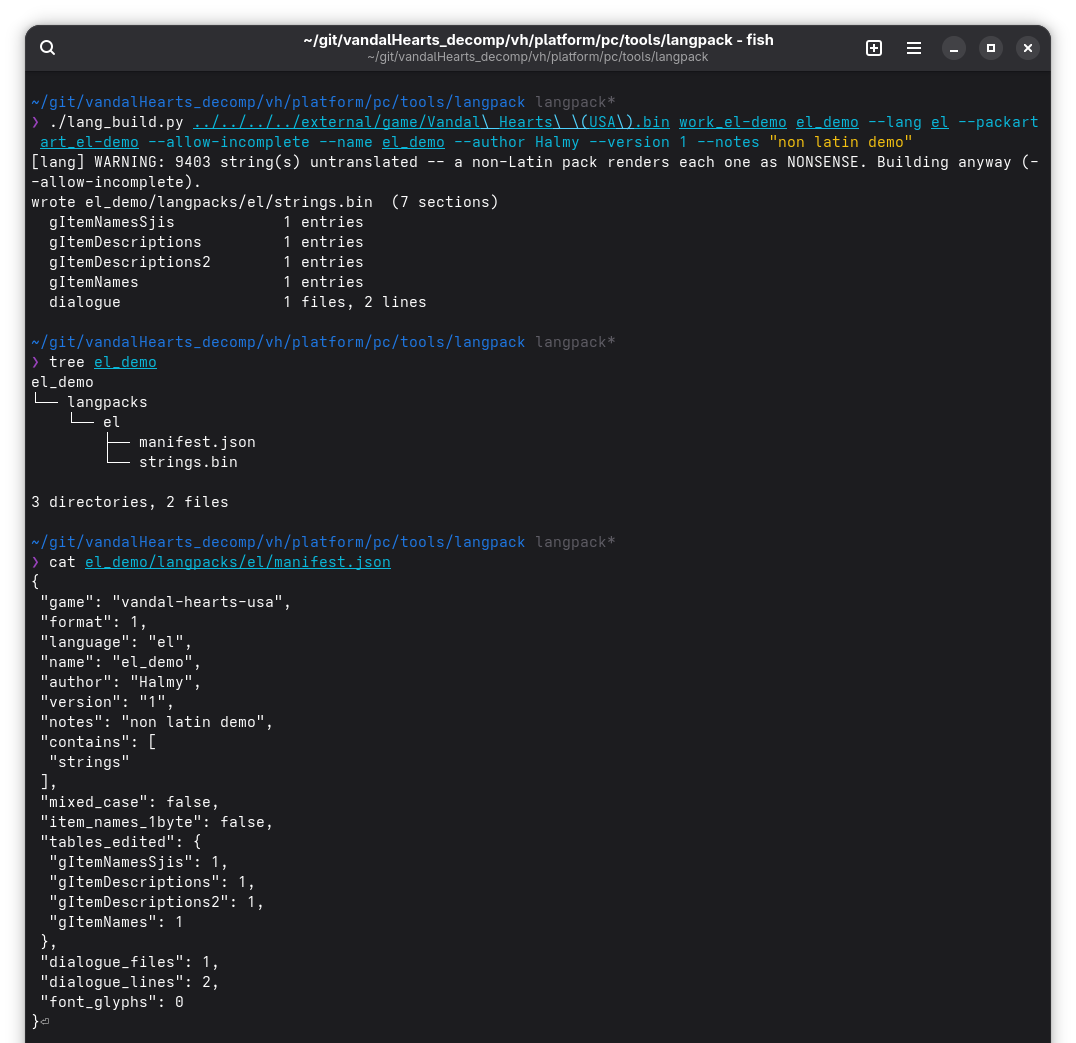
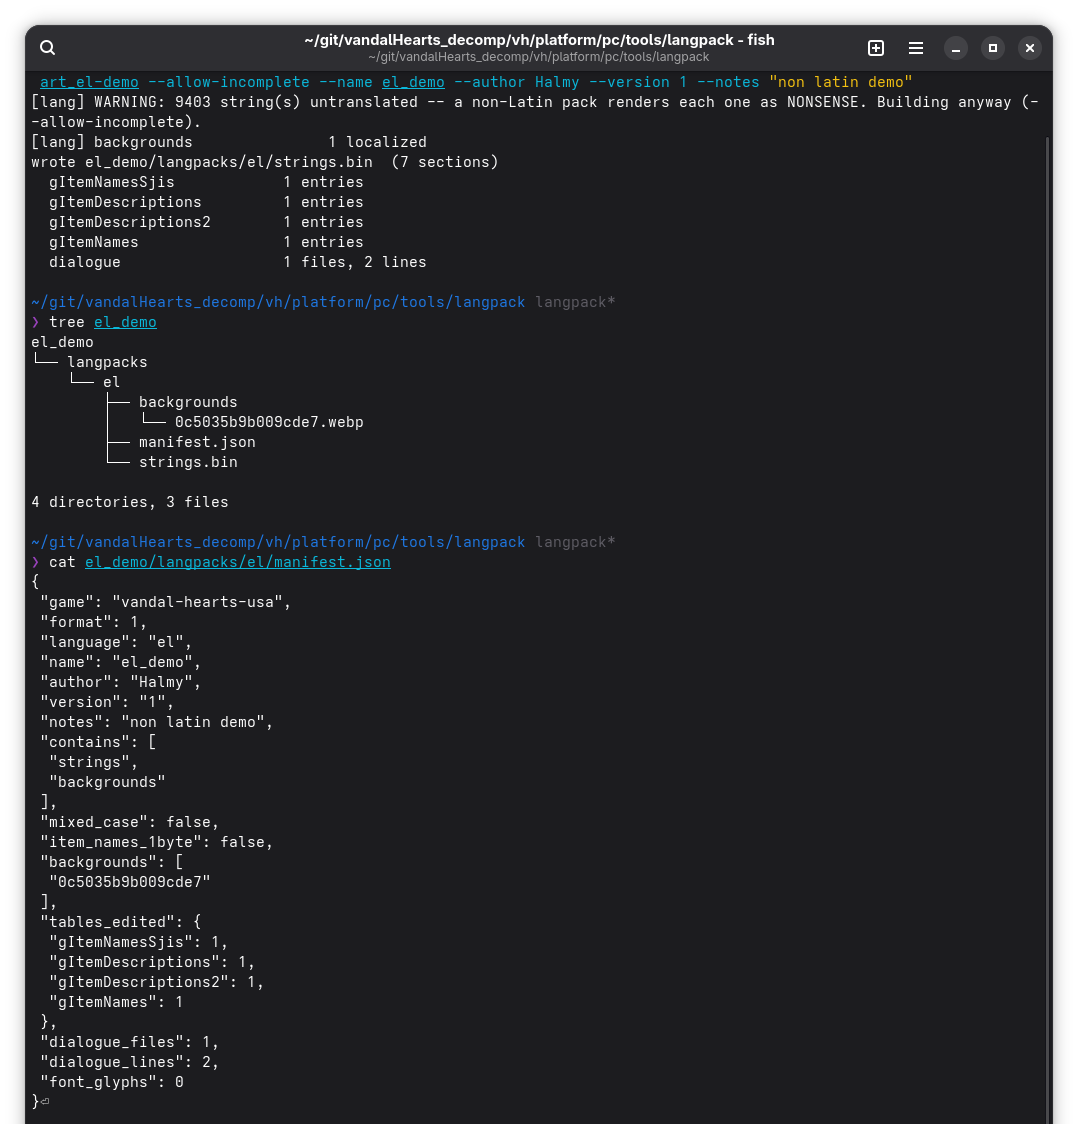
langpack: F2 docs — localized backgrounds in README + quickstart
- README: new "Localized backgrounds" section -- what it does, the two
  requirements (needs the HD pack for hashes/reference; renders only at
  internal scale >= 2), the 4-step workflow, format and what the validator
  checks.
- quickstart: adds step 5 (Backgrounds) -- copy an HD background as a canvas,
  edit the 1280x960 with the translation, drop work/backgrounds/<hash>.webp;
  step 6 validate now passes --hdpack; step 7 notes the backgrounds/ folder
  in the built pack. New/updated screenshots; all metadata-stripped.

Screenshots include a custom Greek title-screen background as the result.

diff --git a/platform/pc/tools/langpack/quickstart.md b/platform/pc/tools/langpack/quickstart.md
@@ -8,8 +8,10 @@ flag**; see [`README.md`](README.md) for the reference and the exact Latin vs no
 Every command is run from `platform/pc/tools/langpack/`. `<disc>` is your own disc image; the scripts
 are executable (`./lang_export.py …`). Non-Latin art needs Pillow (`pip install pillow`).
 
-The end result — Greek dialogue (note the `;`, the Greek question mark) and a translated shop item
+The end result — Custom title background, Greek dialogue (note the `;`, the Greek question mark) and a translated shop item
 with a Greek stat label:
+
+![Custom Greek title background](images-quickstart/quickstart-10-backgrounds.png)
 
 ![In-game Greek dialogue](images-quickstart/quickstart-08-dialog.png)
 
@@ -76,20 +78,44 @@ Note `U+003B ; SEMICOLON` in the list: the game has no `;` glyph, so a Greek pac
 letter — it renders as itself and the demo's question mark works. Re-run this tool whenever you
 translate more text, in case new letters appear.
 
-## 5 · Validate
+## 5 · Backgrounds (optional)
 
-Lint the pack against the engine's real limits — **pass `--packart` for a non-Latin pack**:
+A background with **baked-in text** (the title card, signposts, map labels) can be localized too, via
+the same content-hash swap as the HD pack. You need the **HD pack**: its `backgrounds/<hash>.webp`
+filenames *are* the hashes, matched to images you can actually look at. Two constraints — the file
+must be **1280×960**, and backgrounds render **only at internal scale ≥ 2** (at 1× the player sees the
+original).
+
+Copy the one you want to adapt out of the HD pack as a starting canvas — here the title screen,
+`0c5035b9b009cde7.webp`:
 
 ```
-./lang_validate.py <disc> work_el-demo --packart art_el-demo
+mkdir -p work_el-demo/backgrounds
+cp <hd pack folder>/backgrounds/0c5035b9b009cde7.webp work_el-demo/backgrounds/0c5035b9b009cde7.webp
+```
+
+![Copy the HD background](images-quickstart/quickstart-05.5-copy-backgrounds.png)
+
+Then **edit that 1280×960 image** in your graphics tool — replace the baked-in text with your
+translation, keeping the same dimensions and filename. The custom title at the top of this page is
+that edited background.
+
+## 6 · Validate
+
+Lint the pack against the engine's real limits — **`--packart`** for a non-Latin pack, and
+**`--hdpack <hd pack folder>/backgrounds`** to check any localized background (valid WebP, 1280×960,
+a real HD-pack hash):
+
+```
+./lang_validate.py <disc> work_el-demo --packart art_el-demo --hdpack <hd pack folder>/backgrounds
 ```
 
 ![Validation](images-quickstart/quickstart-06-validation.png)
 
-`0 error(s)` is the goal. The lone warning here is that most strings are still untranslated — fine
-for this demo (see *Notes* on partial non-Latin packs).
+`0 error(s)` is the goal. Both warnings here are harmless: most strings are still untranslated (fine
+for this demo — see *Notes*), and a reminder that the background only shows at internal scale ≥ 2.
 
-## 6 · Build
+## 7 · Build
 
 ```
 ./lang_build.py <disc> work_el-demo el_demo --lang el --packart art_el-demo \
@@ -97,11 +123,12 @@ for this demo (see *Notes* on partial non-Latin packs).
 ```
 
 `--allow-incomplete` lets a *partial* pack build for testing. The output is a `manifest.json` (the
-pack's identity — the game checks its `game`/`format` before loading) and `strings.bin`:
+pack's identity — the game checks its `game`/`format` before loading), `strings.bin`, and — because we
+added a background — a `backgrounds/` folder, all recorded in the manifest:
 
 ![Build](images-quickstart/quickstart-07-build.png)
 
-## 7 · Install and run
+## 8 · Install and run
 
 Copy the pack folder next to the executable and select it:
 
@@ -131,5 +158,7 @@ label; untranslated entries stay in English:
   actually translated. A **Latin** pack degrades gracefully — untranslated entries just stay English.
 - **Punctuation the game can't draw** (`;` and a few others) is drawn exactly like a letter — the
   template lists it, `gen_packart` rasterises it, the builder installs it. Details in `README.md`.
+- **Localized backgrounds** need the HD pack (source of the hash + reference image), must be
+  **1280×960**, and render **only at internal scale ≥ 2** — at 1× the player sees the original.
 - **Full reference:** [`README.md`](README.md) — the Latin workflow, the sheet format, the supported
   character set, pack naming, and the two-font model.

diff --git a/platform/pc/tools/langpack/README.md b/platform/pc/tools/langpack/README.md
@@ -283,6 +283,38 @@ Uppercase accents outside item names: use the accepted convention of unaccented 
 so a Latin word left in a Cyrillic pack would render as Cyrillic — the builder refuses it. You cannot
 mix, say, Cyrillic and Greek in one pack; pick one script.
 
+## Localized backgrounds
+
+Some backgrounds have **text baked into the image** (title cards, signposts, map labels). A pack can
+replace one with a translated version, using the **same content-hash swap as the HD pack** — the file
+is a 1280×960 WebP named `<hash>.webp`, exactly the HD-pack convention. Priority is
+**langpack > HD pack > retail**, so a translated background overrides the HD (untranslated) one.
+
+**Two requirements to know up front:**
+- **You need the HD pack.** It is where the hashes and reference images come from — download it, and
+  its `backgrounds/<hash>.webp` filenames *are* the hashes, matched to the visuals you can look at.
+- **They render only at internal scale ≥ 2** (the hi-res pass), like all background replacement. At
+  scale 1× the player sees the original background. Translated backgrounds reach the hi-res crowd; a
+  player who wants them keeps supersampling on.
+
+**Workflow:**
+
+```
+# 1 — browse the HD pack's backgrounds/<hash>.webp; find the one whose baked-in text you want to
+#     translate, and note its <hash> (the filename).
+# 2 — redraw that image at 1280x960 with the text translated (your own upscaler, or the workflow in
+#     platform/pc/tools/hdpack/vh_bg_restore.py), and save it as:
+#         <work>/backgrounds/<hash>.webp
+# 3 — validate (cross-checks the hash against the HD pack you point at):
+lang_validate.py <disc> <work> --hdpack <hdpack-dir>
+# 4 — build: the backgrounds are copied into the pack and listed in its manifest.
+lang_build.py <disc> <work> <out> --lang <name>
+```
+
+The pack gains a `backgrounds/` folder beside `strings.bin`; the runtime resolves it before the HD
+pack. `lang_validate --hdpack` checks each file is a valid WebP, exactly **1280×960**, with a 16-hex
+hash filename that is a real background in that HD pack (a typo'd hash is otherwise a silent no-op).
+
 ## How validation works
 
 Two layers:
